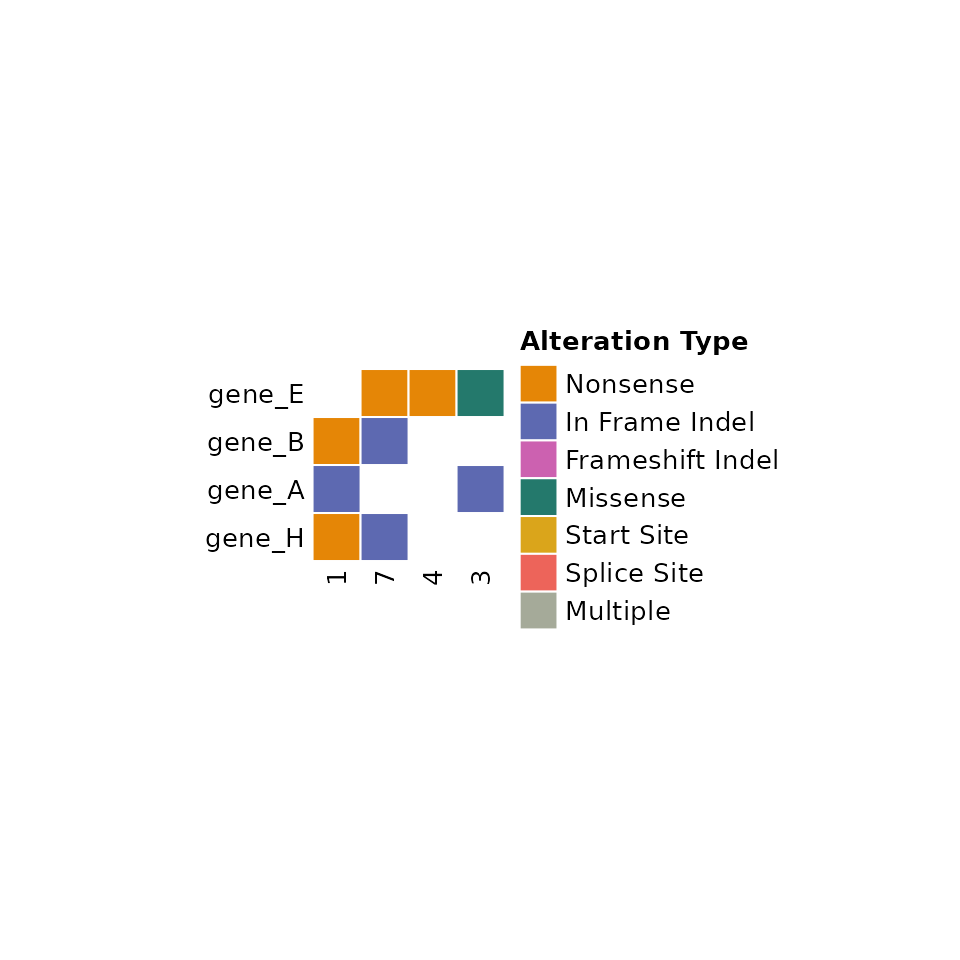
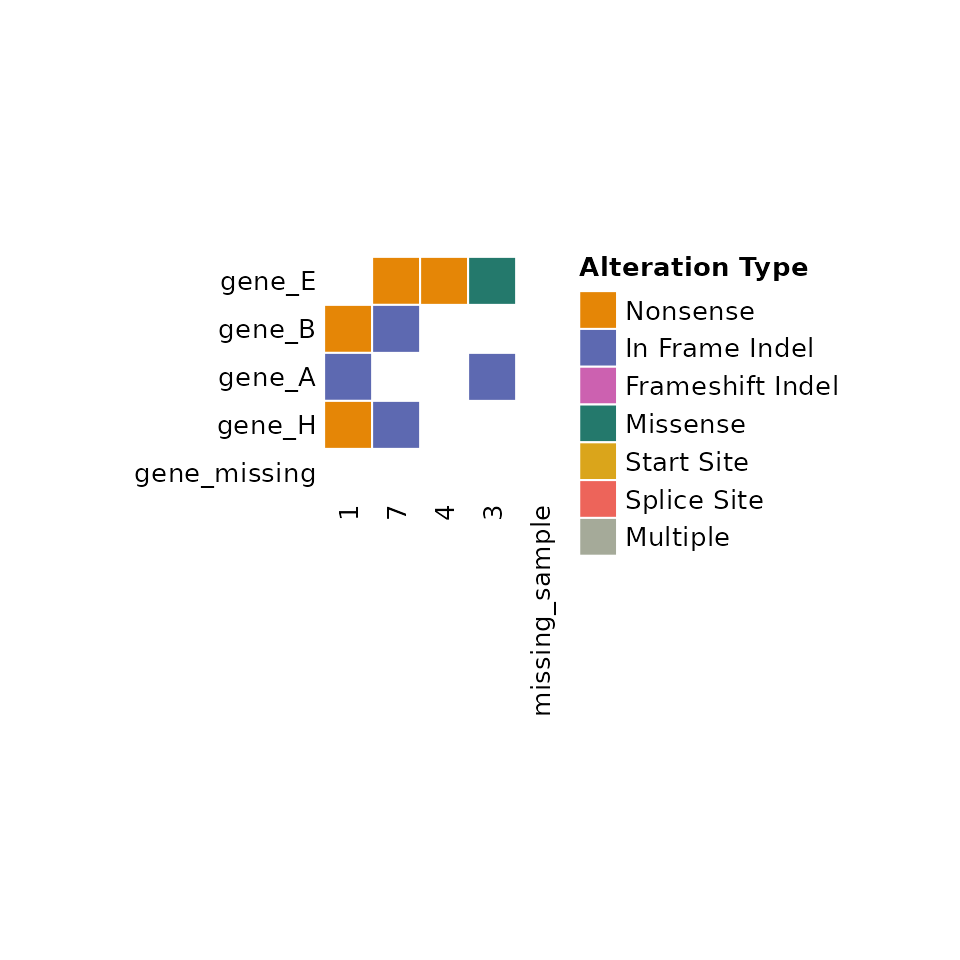
Deploying to gh-pages from @ taprati/ComutR@e9f26ab35bd648b3fe4f057471e82b33c3e4207f 🚀

Changed region(s): [[0.1562, 0.25, 0.875, 0.75], [0.4375, 0.5938, 0.4688, 0.625]]

diff --git a/articles/ComutR.html b/articles/ComutR.html
@@ -112,8 +112,8 @@ format</a></p>
 <p><img src="ComutR_files/figure-html/basic%20comut-1.png" width="480"></p>
 <p>By default, comutR provides a colorscheme for the variant
 classification, but this can be altered using the
-<code>variant_colors</code> and <code>variant_scheme</code>
-arguments.</p>
+<code>variant_colors</code> and <code>variant_scheme</code> arguments.
+<code>comut</code> also orders the rows by frequency of alterations.</p>
 </div>
 <div class="section level2">
 <h2 id="adding-metadata">Adding metadata<a class="anchor" aria-label="anchor" href="#adding-metadata"></a>
@@ -226,16 +226,19 @@ each mutation:</p>
 <p><img src="ComutR_files/figure-html/unnamed-chunk-5-1.png" width="480"></p>
 </div>
 <div class="section level2">
-<h2 id="limiting-samples-or-features">Limiting samples or features<a class="anchor" aria-label="anchor" href="#limiting-samples-or-features"></a>
+<h2 id="limiting-samples-or-features-and-filling-missing-information">Limiting samples or features and filling missing information<a class="anchor" aria-label="anchor" href="#limiting-samples-or-features-and-filling-missing-information"></a>
 </h2>
 <p>If a subset of samples or features in the input data are desired, the
 user can specify the <code>ids</code> or
-<code>features_of_interest</code> arguments respectively.</p>
+<code>features_of_interest</code> arguments respectively.
+<code>comut</code> will also fill in any ids or features that are not
+present in the input data. This can be especially useful when one wants
+to highlight a feature that is not altered in any samples.</p>
 <div class="sourceCode" id="cb13"><pre class="downlit sourceCode r">
 <code class="sourceCode R"><span><span class="fu"><a href="../reference/comut.html">comut</a></span><span class="op">(</span></span>
 <span>  data <span class="op">=</span> <span class="va">input_maf</span>,</span>
-<span>  ids <span class="op">=</span> <span class="fu"><a href="https://rdrr.io/r/base/c.html" class="external-link">c</a></span><span class="op">(</span><span class="st">"1"</span>, <span class="st">"3"</span>, <span class="st">"4"</span>, <span class="st">"7"</span><span class="op">)</span>,</span>
-<span>  features_of_interest <span class="op">=</span> <span class="fu"><a href="https://rdrr.io/r/base/c.html" class="external-link">c</a></span><span class="op">(</span><span class="st">"gene_A"</span>, <span class="st">"gene_B"</span>, <span class="st">"gene_E"</span>, <span class="st">"gene_H"</span><span class="op">)</span></span>
+<span>  ids <span class="op">=</span> <span class="fu"><a href="https://rdrr.io/r/base/c.html" class="external-link">c</a></span><span class="op">(</span><span class="st">"1"</span>, <span class="st">"3"</span>, <span class="st">"4"</span>, <span class="st">"7"</span>, <span class="st">"missing_sample"</span><span class="op">)</span>,</span>
+<span>  features_of_interest <span class="op">=</span> <span class="fu"><a href="https://rdrr.io/r/base/c.html" class="external-link">c</a></span><span class="op">(</span><span class="st">"gene_A"</span>, <span class="st">"gene_B"</span>, <span class="st">"gene_E"</span>, <span class="st">"gene_H"</span>, <span class="st">"gene_missing"</span><span class="op">)</span></span>
 <span>  <span class="op">)</span></span></code></pre></div>
 <p><img src="ComutR_files/figure-html/unnamed-chunk-6-1.png" width="480"></p>
 </div>
@@ -243,6 +246,9 @@ user can specify the <code>ids</code> or
 <h2 id="comut-also-provide-many-arguments-for-the-plot-size-fontsize-and-other-options-">Comut also provide many arguments for the plot size, fontsize, and
 other options.<a class="anchor" aria-label="anchor" href="#comut-also-provide-many-arguments-for-the-plot-size-fontsize-and-other-options-"></a>
 </h2>
+<p><code>comut</code> also takes additional variable arguments for the
+call to <code>Heatmap</code>, so users can specify existing options like
+<code>row_names_rot</code>, etc.</p>
 <div class="sourceCode" id="cb14"><pre class="downlit sourceCode r">
 <code class="sourceCode R"><span><span class="fu"><a href="../reference/comut.html">comut</a></span><span class="op">(</span></span>
 <span>  data <span class="op">=</span> <span class="va">input_maf</span>,</span>
@@ -255,7 +261,9 @@ other options.<a class="anchor" aria-label="anchor" href="#comut-also-provide-ma
 <span>  anno_fontsize <span class="op">=</span> <span class="fl">12</span>,</span>
 <span>  legend_fontsize <span class="op">=</span> <span class="fl">12</span>,</span>
 <span>  body_border <span class="op">=</span> <span class="cn">TRUE</span>,</span>
-<span>  add_borders <span class="op">=</span> <span class="cn">TRUE</span></span>
+<span>  add_borders <span class="op">=</span> <span class="cn">TRUE</span>,</span>
+<span>  row_names_rot <span class="op">=</span> <span class="fl">45</span>,</span>
+<span>  column_names_rot <span class="op">=</span> <span class="fl">0</span></span>
 <span><span class="op">)</span></span></code></pre></div>
 <pre><code><span><span class="co">## Warning: Following annotation names are duplicated: value</span></span></code></pre>
 <p><img src="ComutR_files/figure-html/unnamed-chunk-7-1.png" width="960"></p>

diff --git a/index.html b/index.html
@@ -51,6 +51,12 @@
 <!-- badges: start -->
 
 <p>Create comut plots in R! Built on top of ComplexHeatmap <a href="https://bioconductor.org/packages/release/bioc/html/ComplexHeatmap.html" class="external-link">ComplexHeatmap</a> Heavily inspired by the python package comut: <a href="https://pypi.org/project/comut/" class="external-link">comut</a></p>
+<p>Major features include:</p>
+<ul>
+<li>By default in works with <a href="https://docs.gdc.cancer.gov/Data/File_Formats/MAF_Format/" class="external-link">MAF (Mutation Annotation Format)</a> style input data!</li>
+<li>Ability to add text annotations on top of the boxes</li>
+<li>Allows for missing information to be made explicit</li>
+</ul>
 <div class="section level2">
 <h2 id="installation">Installation<a class="anchor" aria-label="anchor" href="#installation"></a>
 </h2>

diff --git a/reference/comut.html b/reference/comut.html
@@ -62,7 +62,8 @@
 <span>  add_borders <span class="op">=</span> <span class="cn">FALSE</span>,</span>
 <span>  show_barcodes <span class="op">=</span> <span class="cn">TRUE</span>,</span>
 <span>  <span class="va">id_order</span>,</span>
-<span>  <span class="va">ids</span></span>
+<span>  <span class="va">ids</span>,</span>
+<span>  <span class="va">...</span></span>
 <span><span class="op">)</span></span></code></pre></div>
     </div>
 
